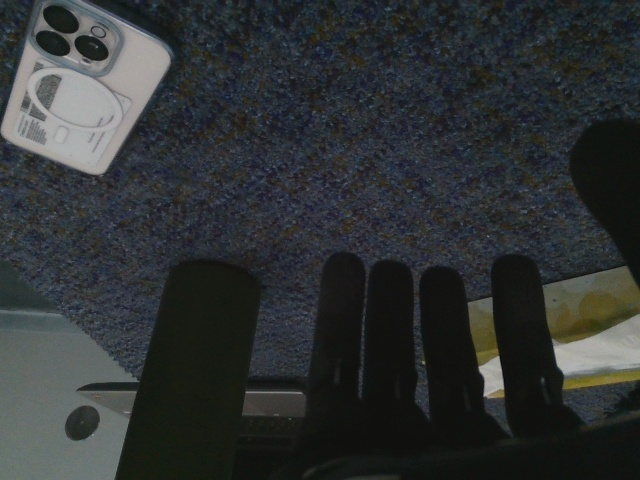
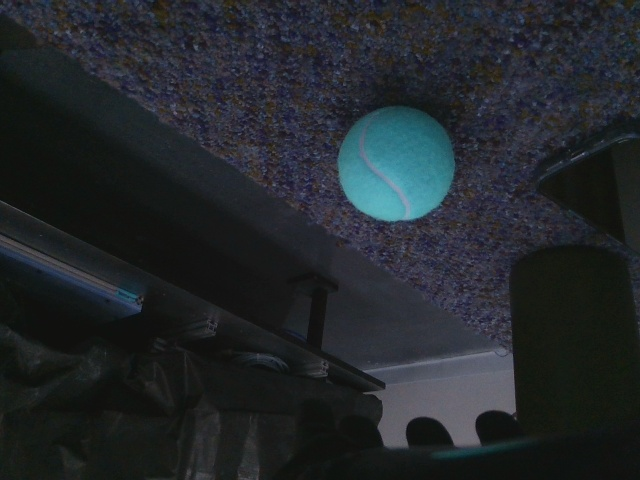
add kalman filter and adjust HSV thresholds for mostly searching at far distance

diff --git a/combinedtest.py b/combinedtest.py
@@ -24,7 +24,7 @@ handClosed = [70, 70, 70, 70, 50, -80]
 # ballColor as per-channel HSV [min H,S,V], [max H,S,V] (OpenCV scale:
 # H 0-179, S/V 0-255); a pixel is a ball pixel when min <= channel <= max
 # for all 3 HSV channels.
-ballColor = ([18,110,34], [56,205,196])
+ballColor = ([9,110,20], [75,205,196])
 
 ballDiameter = 0.065  # m (standard tennis ball)
 ballRadius = ballDiameter / 2
@@ -216,6 +216,75 @@ def sampleBallDepth(depthM, center, radiusPx):
     if samples.size < 10:
         return None
     return float(np.median(samples))
+
+class BallKalman:
+    """Constant-velocity Kalman filter for the ball center (meters).
+
+    Feed it base-frame measurements: ball motion is smooth in the world,
+    while camera-frame measurements jump whenever the arm moves, so filtering
+    in the base frame is what makes prediction across missed detections valid.
+
+    State is [position, velocity]; the first update() initializes it (zero
+    velocity, wide velocity covariance). Call predict(dt) once per cycle with
+    the elapsed time, then update(z) when there is a detection; on a miss just
+    skip update and the estimate coasts on velocity while sigma grows.
+
+    Tuning: sigmaMeas is the per-axis std of one measurement (~2 mm observed
+    at 0.3 m with stereo depth; raise it when the apparent-size fallback is
+    in play). sigmaAccel is the white-acceleration process noise — how hard
+    the ball might accelerate. Larger values trust new measurements more and
+    smooth less; ~1 m/s^2 suits a ball that is parked or carried by hand.
+    """
+
+    def __init__(self, sigmaAccel=1.0, sigmaMeas=0.005):
+        self.sigmaAccel = sigmaAccel
+        self.sigmaMeas = sigmaMeas
+        self.x = None  # [px, py, pz, vx, vy, vz]
+        self.P = None
+
+    def predict(self, dt):
+        """Advance the estimate by dt seconds. No-op before the first update."""
+        if self.x is None:
+            return
+        F = np.eye(6)
+        F[:3, 3:] = dt * np.eye(3)
+        I3 = np.eye(3)
+        Q = self.sigmaAccel ** 2 * np.block([
+            [dt ** 4 / 4 * I3, dt ** 3 / 2 * I3],
+            [dt ** 3 / 2 * I3, dt ** 2 * I3],
+        ])
+        self.x = F @ self.x
+        self.P = F @ self.P @ F.T + Q
+
+    def update(self, z):
+        """Fold in a measured base-frame ball position (3-vector, meters)."""
+        z = np.asarray(z, dtype=float)
+        if self.x is None:
+            self.x = np.concatenate([z, np.zeros(3)])
+            # Position known to measurement accuracy; velocity unknown (std 1 m/s).
+            self.P = np.diag([self.sigmaMeas ** 2] * 3 + [1.0] * 3)
+            return
+        # H selects position, so H P H^T = P[:3,:3] and P H^T = P[:,:3].
+        S = self.P[:3, :3] + self.sigmaMeas ** 2 * np.eye(3)
+        K = self.P[:, :3] @ np.linalg.inv(S)
+        self.x = self.x + K @ (z - self.x[:3])
+        self.P = self.P - K @ self.P[:3, :]
+        self.P = (self.P + self.P.T) / 2  # keep symmetric against roundoff
+
+    @property
+    def position(self):
+        """Estimated ball center (3-vector, m), or None before the first update."""
+        return None if self.x is None else self.x[:3].copy()
+
+    @property
+    def velocity(self):
+        """Estimated ball velocity (3-vector, m/s), or None before the first update."""
+        return None if self.x is None else self.x[3:].copy()
+
+    @property
+    def sigma(self):
+        """Per-axis position std (3-vector, m), or None before the first update."""
+        return None if self.P is None else np.sqrt(np.diag(self.P)[:3])
 
 def getTooltipInBase(arm):
     """Current tooltip pose as a 4x4 base-frame transform (meters)."""

diff --git a/debug_ball_frames.py b/debug_ball_frames.py
@@ -16,6 +16,12 @@ can be checked in isolation:
   * ball at a spot you can measure: base should match the tape measure, and
     tool reads (0, 0, 0) exactly when the grasp point touches the ball center.
 
+The kf column is a constant-velocity Kalman estimate of the base-frame
+position (combinedtest.BallKalman) with its largest per-axis std and speed;
+on missed detections it coasts on the velocity model while the std grows.
+Compare kf against raw base to judge how much smoothing/lag the current
+tuning (sigmaAccel/sigmaMeas) gives.
+
 SAFETY: read-only — never commands motion and never brakes/unbrakes the arm.
 Freedrive/jog the arm while it runs.
 
@@ -23,12 +29,14 @@ Usage:
     .venv/bin/python debug_ball_frames.py    (Ctrl+C to stop)
 """
 
+import time
+
 import numpy as np
 
 from calibrate_handeye import ArmReader
-from combinedtest import (CamClient, getFrames, getTooltipInBase, maskBall,
-                          fitCircleInArray, ballCenterInCam, camInTooltip,
-                          tooltipOffset)
+from combinedtest import (BallKalman, CamClient, getFrames, getTooltipInBase,
+                          maskBall, fitCircleInArray, ballCenterInCam,
+                          camInTooltip, tooltipOffset)
 
 toolFromTooltip = np.linalg.inv(tooltipOffset)
 
@@ -41,6 +49,8 @@ def fmt(p):
 
 def main():
     print("all positions in meters; Ctrl+C to stop")
+    kf = BallKalman()
+    lastT = time.monotonic()
     with ArmReader() as arm, CamClient() as cam:
         while True:
             # Frame first, pose second, back to back (same caveat as
@@ -52,18 +62,28 @@ def main():
                 frame, depthM, intr = getFrames(cam)
             tooltipInBase = getTooltipInBase(arm)
 
+            now = time.monotonic()
+            kf.predict(now - lastT)
+            lastT = now
+
             fit = fitCircleInArray(maskBall(frame))
             if fit is None:
-                print("ball: not found")
+                if kf.position is None:
+                    print("ball: not found")
+                else:  # coast on the model; sigma grows until the next detection
+                    print(f"ball: not found  kf base{fmt(kf.position)} "
+                          f"+-{kf.sigma.max():.3f}")
                 continue
 
             pCam = ballCenterInCam(fit[0], fit[1], depthM, intr)
             pTooltip = toFrame(camInTooltip, pCam)
             pTool = toFrame(toolFromTooltip, pTooltip)
             pBase = toFrame(tooltipInBase, pTooltip)
+            kf.update(pBase)
 
             print(f"cam{fmt(pCam)}  tooltip{fmt(pTooltip)}  tool{fmt(pTool)}  "
-                  f"base{fmt(pBase)}  range {np.linalg.norm(pCam):.3f} m")
+                  f"base{fmt(pBase)}  kf{fmt(kf.position)} "
+                  f"+-{kf.sigma.max():.3f}  v {np.linalg.norm(kf.velocity):.2f} m/s")
 
 if __name__ == "__main__":
     try:
